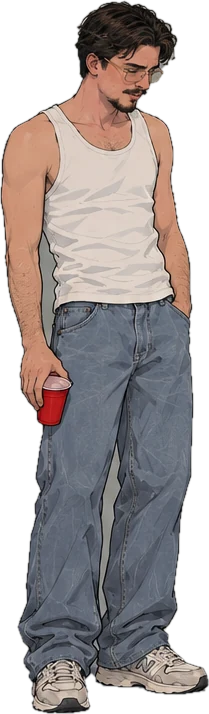
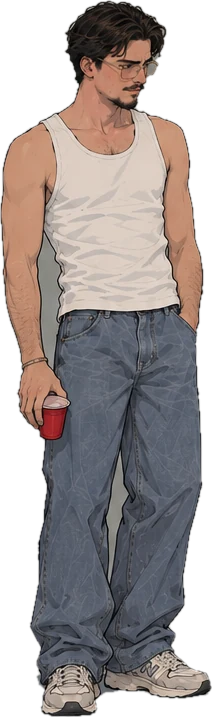
Last call : nouvelles poses de Justin

diff --git a/chars.js b/chars.js
@@ -1,1 +1,1 @@
-window.SPRITES = {"amare":{"refH":662,"poses":{"angry":[293,649],"explaining":[293,647],"holding":[241,655],"listen":[284,662],"surprised":[282,659],"thinking":[278,658]}},"brooke":{"refH":709,"poses":{"drunk_happy":[231,699],"drunk_listen":[252,707],"drunk_point":[226,698],"drunk_sad":[240,695],"drunk_talk":[290,703],"pee":[236,693],"pee_look":[220,698],"pee_relief":[225,700],"texting":[222,703],"thinking":[206,709]}},"cam":{"refH":709,"poses":{"amused":[273,701],"awkward":[215,700],"flirty":[209,706],"listen":[244,699],"tipsy_laugh":[220,703],"worried":[184,709]}},"candy":{"refH":662,"poses":{"angry":[293,649],"explaining":[293,647],"holding":[241,655],"listen":[284,662],"surprised":[282,659],"thinking":[278,658]}},"isa_noir":{"refH":692,"poses":{"angry":[259,689],"explaining":[302,692],"holding":[205,676],"listen":[235,684],"surprised":[256,681],"thinking":[230,685]}},"isa_nuit":{"refH":692,"poses":{"angry":[259,689],"explaining":[302,692],"holding":[205,676],"listen":[235,684],"surprised":[256,681],"thinking":[230,685]}},"isa_or":{"refH":692,"poses":{"angry":[259,689],"explaining":[302,692],"holding":[205,676],"listen":[235,684],"surprised":[256,681],"thinking":[230,685]}},"james":{"refH":707,"poses":{"angry":[259,681],"explaining":[276,688],"holding":[215,689],"listen":[279,706],"surprised":[271,700],"thinking":[227,707]}},"james_noir":{"refH":707,"poses":{"angry":[259,681],"explaining":[276,688],"holding":[215,689],"listen":[279,706],"surprised":[271,700],"thinking":[227,707]}},"justin":{"refH":704,"poses":{"angry":[268,685],"explaining":[268,693],"hit":[266,640],"holding":[220,694],"ko":[315,210],"listen":[266,695],"phone_call":[270,698],"phone_shock":[235,700],"punch":[300,644],"surprised":[264,699],"texting":[247,698],"thinking":[242,704]}},"justin_b":{"refH":704,"poses":{"angry":[268,685],"explaining":[268,693],"hit":[266,640],"holding":[220,694],"ko":[315,210],"listen":[266,695],"phone_call":[270,698],"phone_shock":[235,700],"punch":[300,644],"surprised":[264,699],"texting":[247,698],"thinking":[242,704]}},"justin_bar":{"refH":717,"poses":{"drunk_flirt":[208,709],"drunk_happy":[224,717],"drunk_listen":[217,708],"drunk_sad":[209,714],"drunk_talk":[279,716],"texting":[230,714]}},"melissa":{"refH":692,"poses":{"angry":[259,689],"explaining":[302,692],"holding":[205,676],"listen":[235,684],"surprised":[256,681],"thinking":[230,685]}},"ruby":{"refH":692,"poses":{"angry":[259,689],"explaining":[302,692],"holding":[205,676],"listen":[235,684],"surprised":[256,681],"thinking":[230,685]}}};
+window.SPRITES = {"amare":{"refH":662,"poses":{"angry":[293,649],"explaining":[293,647],"holding":[241,655],"listen":[284,662],"surprised":[282,659],"thinking":[278,658]}},"brooke":{"refH":709,"poses":{"drunk_happy":[231,699],"drunk_listen":[252,707],"drunk_point":[226,698],"drunk_sad":[240,695],"drunk_talk":[290,703],"pee":[236,693],"pee_look":[220,698],"pee_relief":[225,700],"texting":[222,703],"thinking":[206,709]}},"cam":{"refH":709,"poses":{"amused":[273,701],"awkward":[215,700],"flirty":[209,706],"listen":[244,699],"tipsy_laugh":[220,703],"worried":[184,709]}},"candy":{"refH":662,"poses":{"angry":[293,649],"explaining":[293,647],"holding":[241,655],"listen":[284,662],"surprised":[282,659],"thinking":[278,658]}},"isa_noir":{"refH":692,"poses":{"angry":[259,689],"explaining":[302,692],"holding":[205,676],"listen":[235,684],"surprised":[256,681],"thinking":[230,685]}},"isa_nuit":{"refH":692,"poses":{"angry":[259,689],"explaining":[302,692],"holding":[205,676],"listen":[235,684],"surprised":[256,681],"thinking":[230,685]}},"isa_or":{"refH":692,"poses":{"angry":[259,689],"explaining":[302,692],"holding":[205,676],"listen":[235,684],"surprised":[256,681],"thinking":[230,685]}},"james":{"refH":707,"poses":{"angry":[259,681],"explaining":[276,688],"holding":[215,689],"listen":[279,706],"surprised":[271,700],"thinking":[227,707]}},"james_noir":{"refH":707,"poses":{"angry":[259,681],"explaining":[276,688],"holding":[215,689],"listen":[279,706],"surprised":[271,700],"thinking":[227,707]}},"justin":{"refH":704,"poses":{"angry":[268,685],"explaining":[268,693],"hit":[266,640],"holding":[220,694],"ko":[315,210],"listen":[266,695],"phone_call":[270,698],"phone_shock":[235,700],"punch":[300,644],"surprised":[264,699],"texting":[247,698],"thinking":[242,704]}},"justin_b":{"refH":704,"poses":{"angry":[268,685],"explaining":[268,693],"hit":[266,640],"holding":[220,694],"ko":[315,210],"listen":[266,695],"phone_call":[270,698],"phone_shock":[235,700],"punch":[300,644],"surprised":[264,699],"texting":[247,698],"thinking":[242,704]}},"justin_bar":{"refH":717,"poses":{"drunk_flirt":[211,715],"drunk_happy":[217,715],"drunk_listen":[247,713],"drunk_sad":[212,717],"drunk_talk":[279,712],"texting":[204,716]}},"melissa":{"refH":692,"poses":{"angry":[259,689],"explaining":[302,692],"holding":[205,676],"listen":[235,684],"surprised":[256,681],"thinking":[230,685]}},"ruby":{"refH":692,"poses":{"angry":[259,689],"explaining":[302,692],"holding":[205,676],"listen":[235,684],"surprised":[256,681],"thinking":[230,685]}}};

diff --git a/index.html b/index.html
@@ -289,10 +289,10 @@ body.watch #choices button, body.watch .looks button { pointer-events: none; }
   <div id="qrCard" hidden><div id="qrBox"></div></div>
 </div>
 
-<script src="chars.js?v=20261023160736"></script>
-<script src="story.js?v=20261023160736"></script>
-<script src="play.js?v=20261023160736"></script>
-<script src="bar.js?v=20261023160736"></script>
+<script src="chars.js?v=20261023161301"></script>
+<script src="story.js?v=20261023161301"></script>
+<script src="play.js?v=20261023161301"></script>
+<script src="bar.js?v=20261023161301"></script>
 <script>
 const $ = (s) => document.querySelector(s);
 const stage = $('#stage'), world = $('#world'), bgImg = $('#bgimg'), backEl = $('#backdrop'), castEl = $('#cast'), frontEl = $('#front'),
@@ -1028,7 +1028,7 @@ function roomCode() {
 // the game's version (tools/site.py stamps it). Two phones on different versions can't play one story together, and
 // GitHub keeps the old one in a phone's cache ~10 min: a phone that hears of a newer version reloads to it, between
 // stories (never in the middle of one)
-const BUILD = '20261023160736';
+const BUILD = '20261023161301';
 function newer(v) {
   if (BUILD === 'dev' || !v || v === 'dev' || v <= BUILD || newer.done) return;
   if (!['#who', '#hub', '#lobby', '#wait', '#end'].includes(screen)) return;
